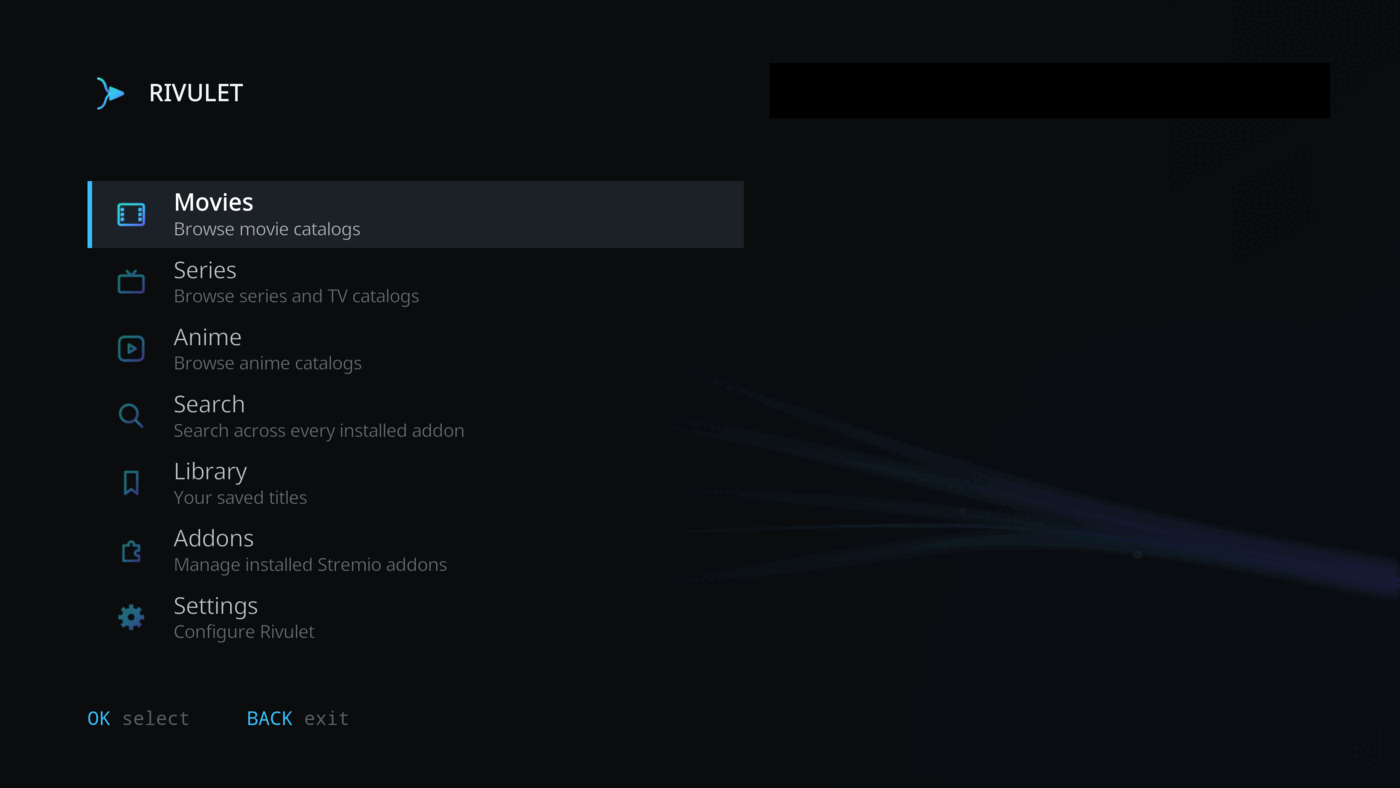
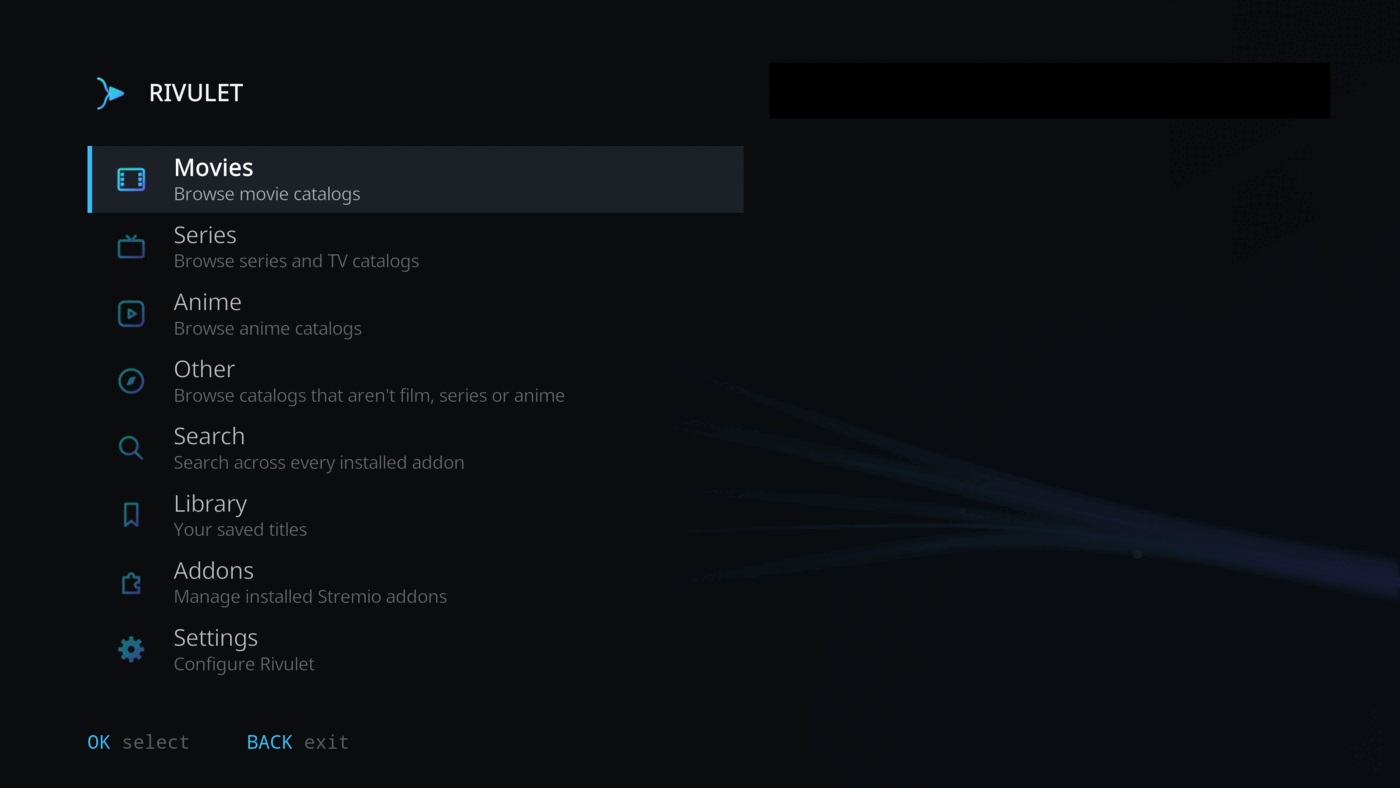
screenshots: Home has eight rows now, and the harness knows it
The Home shot showed seven rows and no Other. Refreshed, and only that
one: the other ten are the previously verified captures, restored
untouched.

The harness itself had the same rot it was fixed for once already. It
hardcoded HomeWindow's row indices, so inserting `other` at index 3 sent
every later leg to the wrong screen - the same class of bug as counting
keypresses instead of checking where you are. The indices are now read
out of lib.ui.homewindow._MENU with ast (that module binds xbmcgui at
import, so it cannot simply be imported), which makes them follow the
menu automatically.

Two robustness fixes found while running it: the back-out loop now stops
playback on every iteration rather than only before the loop, because
backing out of a screen can itself start a stream whose dialog then
swallows Back, and it waits longer for a cold launch, which refreshes
addon manifests over the network before HomeWindow opens. Both failures
aborted a whole capture run.

Not fixed, and left as they were: the "Preparing stream" and search
results shots are timing-sensitive - one caught the video surface (a
black frame) and one a fan-out that had not returned after 28 seconds.
Their committed versions are good, so they stay.

Changed region(s): [[0.0614, 0.1827, 0.3993, 0.8528], [0.1536, 0.8832, 0.2457, 0.9442], [0.0614, 0.8832, 0.1229, 0.9442]]

diff --git a/scripts/capture_screenshots.py b/scripts/capture_screenshots.py
@@ -200,23 +200,36 @@ def goto_home(rpc, delay=2.0):
     Server URL field. So: back out until Kodi's own home is actually on
     screen, then relaunch and wait until the addon's Home actually is.
     """
-    for player in (rpc.call("Player.GetActivePlayers") or {}).get("result") or []:
-        rpc.call("Player.Stop", {"playerid": player["playerid"]})
-        time.sleep(1.5)
-    for _ in range(15):
+    # Stop playback inside the loop, not only before it: backing out of a
+    # screen can start a stream (a stuck "Preparing stream" dialog swallows
+    # Back until it resolves or is cancelled), and a fixed pre-loop stop
+    # cannot see one that appears afterwards. 0.5s per press was also too
+    # brisk for a dialog mid-resolve - one run exhausted its budget and
+    # aborted the whole capture.
+    for _ in range(30):
         if current_window(rpc) == WINDOW_KODI_HOME:
             break
+        for player in (rpc.call("Player.GetActivePlayers") or {}).get("result") or []:
+            rpc.call("Player.Stop", {"playerid": player["playerid"]})
+            time.sleep(1.5)
         rpc.call("Input.Back")
-        time.sleep(0.5)
+        time.sleep(0.8)
     else:
-        raise SystemExit("could not get back to Kodi's home screen")
+        raise SystemExit(
+            "could not get back to Kodi's home screen (stuck at window %s)"
+            % current_window(rpc))
     rpc.call("Addons.ExecuteAddon", {"addonid": "plugin.video.rivulet"})
-    for _ in range(24):
+    # Generous: a cold launch refreshes addon manifests over the network
+    # before HomeWindow opens, and 12s was not always enough.
+    for _ in range(60):
         time.sleep(0.5)
         if current_window(rpc) == WINDOW_RIVULET_HOME:
             break
     else:
-        raise SystemExit("Rivulet's HomeWindow never came up")
+        raise SystemExit(
+            "Rivulet's HomeWindow never came up (stuck at window %s) - if the addon"
+            " was already deep in its own window stack, restart Kodi for a clean slate"
+            % current_window(rpc))
     # Opening the addon fires a "Logged in as <email>" toast. It is not
     # covered by EMAIL_BOX_FRACTIONS (that only masks HomeWindow's status
     # pill) and it WILL be captured by any screenshot taken too soon after
@@ -225,9 +238,40 @@ def goto_home(rpc, delay=2.0):
     time.sleep(max(delay, 6.0))
 
 
-#: HomeWindow's rows, in order, as `lib.ui.homewindow._MENU` defines them.
-#: Library only appears when logged in, which the capture machine is.
-HOME_MOVIES, HOME_SERIES, HOME_ANIME, HOME_SEARCH, HOME_LIBRARY, HOME_ADDONS = range(6)
+def _home_rows():
+    """Map each HomeWindow action to its row index, read out of
+    `lib.ui.homewindow._MENU` - the authoritative definition.
+
+    Parsed with `ast` rather than imported: `lib.ui.homewindow` binds
+    `xbmcgui` at module scope and cannot load outside Kodi. These used to
+    be hardcoded, and went stale the moment the `other` row was inserted
+    at index 3 - every leg after it then walked to the wrong screen, which
+    is the same class of failure as counting keypresses.
+
+    Assumes every row is present, which holds on the capture machine: it
+    is logged in (Library) and has addons publishing types outside the
+    three curated rows (Other). A machine missing either would shift the
+    rows below it.
+    """
+    import ast
+
+    source = os.path.join(_REPO_ROOT, 'lib', 'ui', 'homewindow.py')
+    with open(source, encoding='utf-8') as handle:
+        tree = ast.parse(handle.read())
+    for node in ast.walk(tree):
+        if isinstance(node, ast.Assign) and any(
+                getattr(t, 'id', None) == '_MENU' for t in node.targets):
+            actions = [e.elts[1].value for e in node.value.elts]
+            return {action: index for index, action in enumerate(actions)}
+    raise SystemExit('could not find _MENU in %s' % source)
+
+
+#: HomeWindow's rows, by action name -> row index.
+HOME_ROWS = _home_rows()
+HOME_MOVIES = HOME_ROWS['movies']
+HOME_SEARCH = HOME_ROWS['search']
+HOME_LIBRARY = HOME_ROWS['library']
+HOME_ADDONS = HOME_ROWS['addons']
 
 #: Rows to step down in Kodi's "Video add-ons" folder to reach Rivulet.
 #: The folder lists ".." first, then user video plugins sorted by name;
